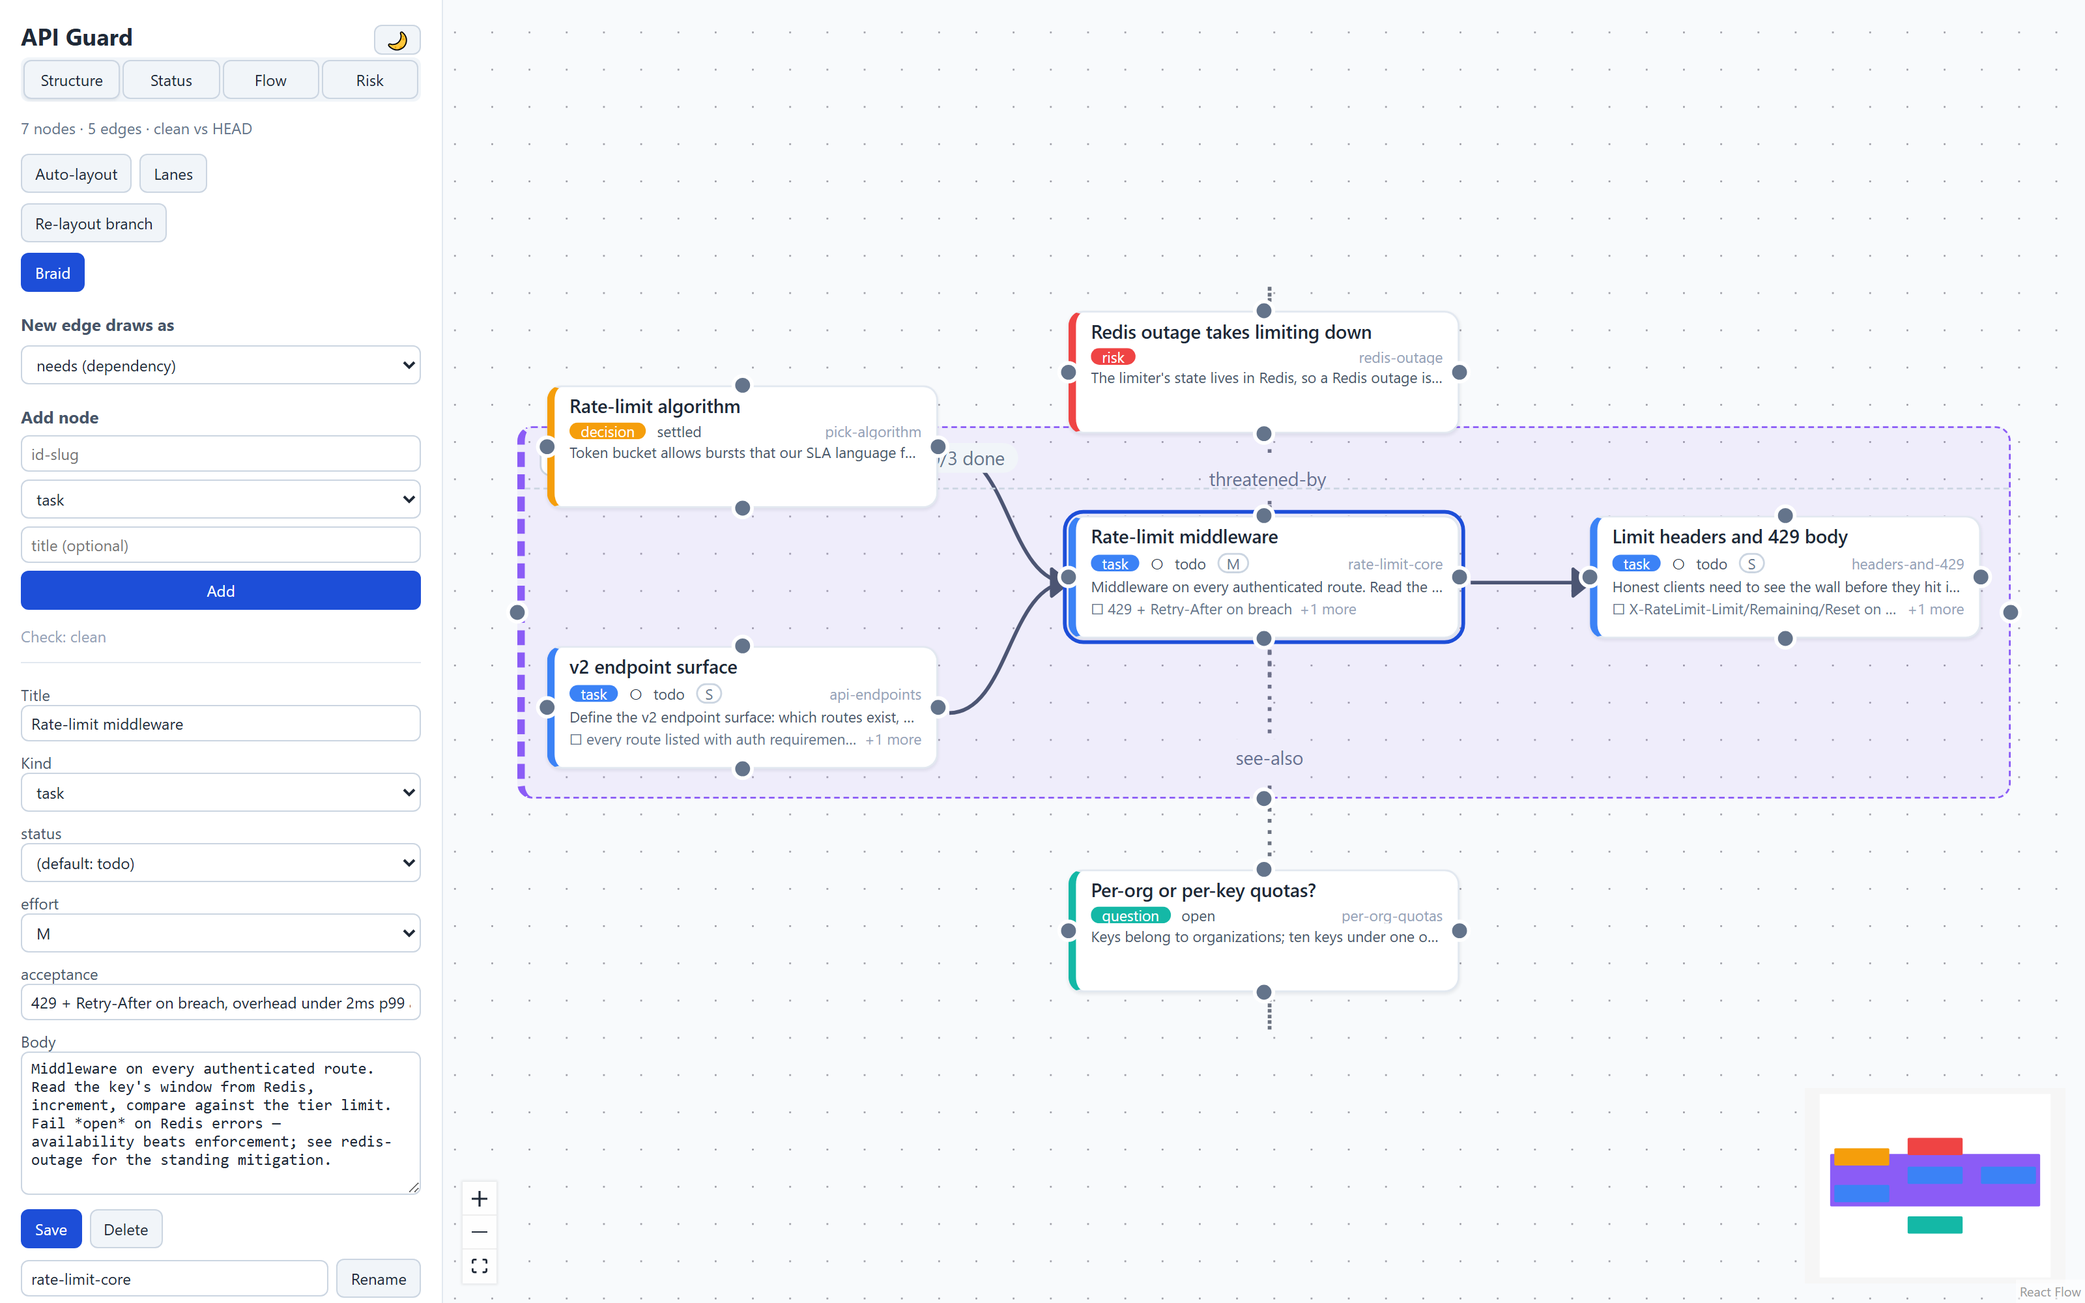
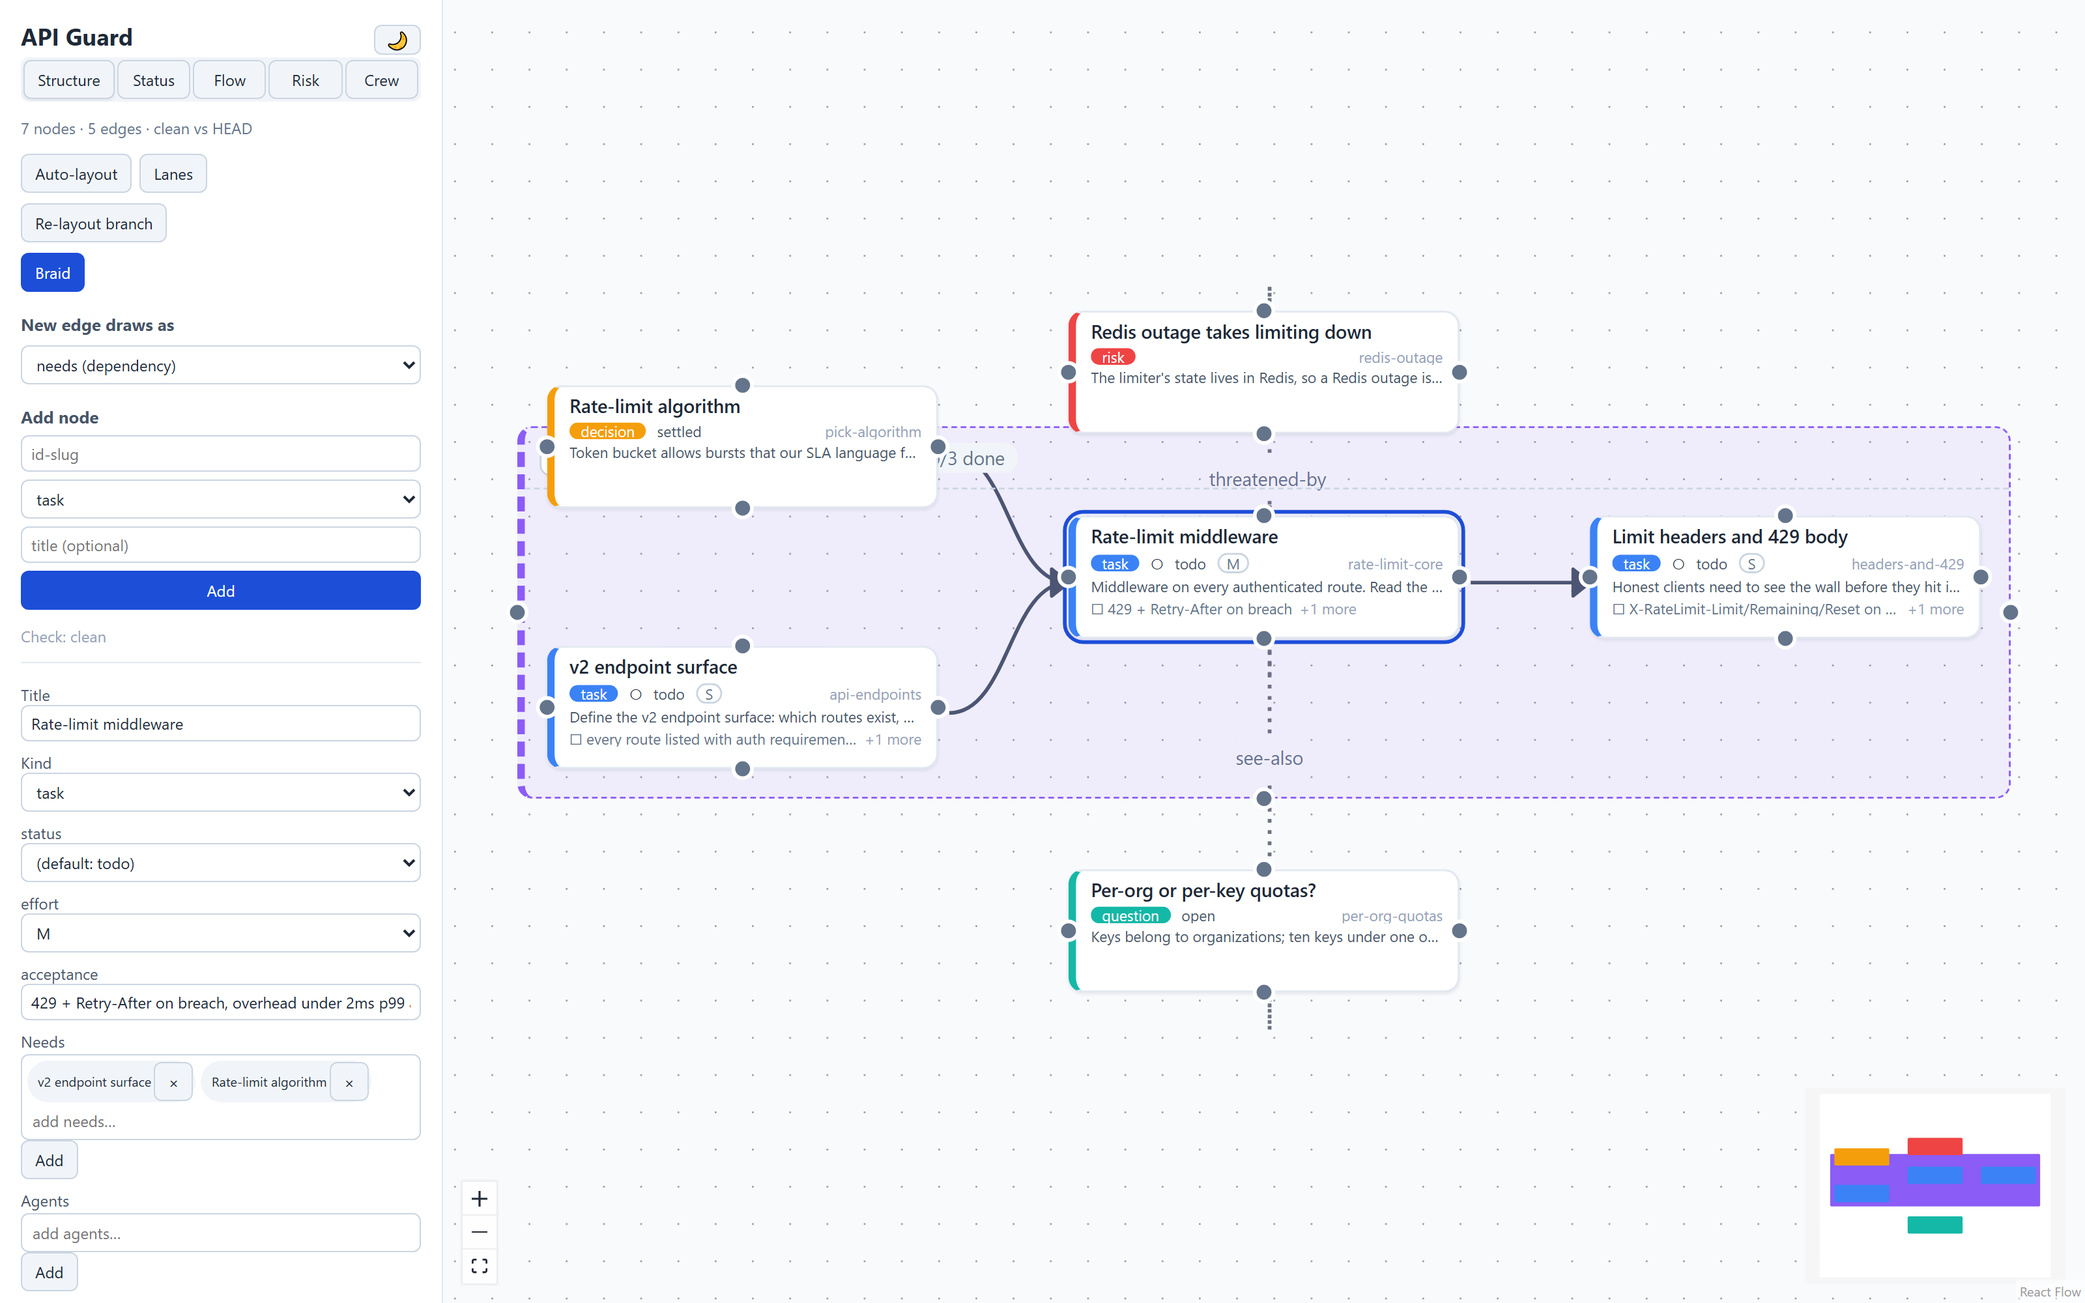
M9 close: the roadmap crews itself — dogfood, demo, docs gate, lens-crew shot, changelog, retro (6 lessons)

Changed region(s): [[0.0, 0.775, 0.1875, 1.0], [0.125, 0.062, 0.1562, 0.093]]

diff --git a/tools/screenshots.py b/tools/screenshots.py
@@ -112,6 +112,11 @@ def main() -> int:
             page.keyboard.press("2")
             page.wait_for_timeout(500)
             page.screenshot(path=str(ASSETS / "lens-status.png"))
+            # The Crew lens (key 5): agent hues, unassigned outlines, trains
+            # edges bold — M9's face, shot on the crewed roadmap itself.
+            page.keyboard.press("5")
+            page.wait_for_timeout(500)
+            page.screenshot(path=str(ASSETS / "lens-crew.png"))
             page.keyboard.press("1")
 
         browser.close()

diff --git a/build/state/journal.md b/build/state/journal.md
@@ -924,3 +924,68 @@ into a container can miss a DOM render cycle right after membership
 changes (transient, orthogonal to CSS). Both M10-feel candidates. Battery
 + frontend typecheck/build green under the orchestrator's hands. M9 items
 3/3 — next: roadmap crew dogfood, then the close ritual.
+
+## 2026-09-01 — retro at M9 close (iterations 29-31)
+
+Six lessons folded, all from this stretch's real incidents:
+1. CSS modifier classes compound with their base class (iteration skill) —
+   the K30 specificity tie muted trains edges AND had shipped Flow's
+   critical bolding dead since K26.
+2. Checker corollary: "this CSS path is inert" is verified by
+   getComputedStyle on a live render — the K30 checker's selector-reading
+   said inert, measurement said broken (iteration skill).
+3. The playwright rule gained its precise boundary: CSSOM reads from any
+   driver are valid; pixel claims are playwright-shot or not evidence
+   (iteration skill).
+4. Reviewers leave resumable artifacts in the scratchpad — the K30 critic's
+   transcript was unresumable; its surviving copy plan + shots let a fresh
+   agent re-verify without rebuild (iteration skill).
+5. Git Bash rewrites leading-slash argument values into Windows paths —
+   the M9 dogfood's invocation fields arrived mangled; PowerShell for such
+   commands; caught by reading the demo output (iteration skill).
+6. Clock-before-authoring strengthens the dates rule — iteration 30's
+   entry ran `date` and ignored it in the same command (iteration skill);
+   and the manage close report now names stale long-running processes (the
+   live MCP server predates K28 — no crew tool until Thomas restarts it).
+Nothing pruned. Training log appended; last_retro_iteration -> 31.
+
+## 2026-09-01 — M9 close: Crew
+
+**Dogfood (PLAN2 par.3.5, run through the tool's own surfaces):** the
+roadmap now carries its crew — agents claude-fable-5 (runtime claude-code,
+trained 2026-08-31, retrieval pointing at PLAN2/journal) and thomas
+(runtime human, the only hands on PyPI); skills kumihimo-iteration/-manage/
+-retro with invocation, source, cadence, and trained from the Training
+log; reference training-log; and a standing retro-cycle task that
+trains: all three skills and consults the log — the honest picture of how
+this project actually runs. Mentions placed only where journal-verifiable:
+agents:[claude-fable-5] on the eleven M7-M10 delegated-loop tasks,
+agents:[thomas]+skills:[kumihimo-manage] on pypi-release,
+skills:[kumihimo-iteration] on the M9 items and feel-work. 41 nodes, 50
+edges, 0 errors, 0 warnings. Adds via CLI; mentions via core.ops.link
+(the CLI still has no --agents flags — known gap); the invocation fields
+arrived MSYS-mangled from Git Bash and were re-set via PowerShell.
+
+**Demo, real prints:** braid --for claude-fable-5 opens "*Ground with:*
+grep the repo first; PLAN2.md is the design authority; journal.md is the
+memory", Cast lists all four crew with trained dates verbatim, tasks carry
+*Assigned:*/*With:* lines; kumihimo crew renders the six-member roster
+with mention counts (agents:12 on claude-fable-5); export jsonl = 41
+records, every line json.loads, ids sorted, retro-cycle's trains + consult
+edges in the feed; ready(for_agent=claude-fable-5) = [feel-work] — the
+same set as ready(), correctly, since the one unblocked task is his.
+
+**Docs gate:** formats/cli/mcp-tools/editor/shortcuts/concepts pages all
+shipped in their iterations' commits; screenshots re-shot including NEW
+lens-crew.png wired into editor.md and the shot tool; README's roadmap
+paragraph updated to match the re-shot canvas (it said "the morning v0.1
+finished" over an image now showing M9 and the crew); README commands
+unchanged since last push — no clean-checkout run owed; mkdocs strict
+green. Statuses: crew-model/crew-braid/crew-canvas done via kumihimo set
+(step 0). Changelog: M9 Added + the two Fixed entries (cascade tie, CRLF).
+
+**For Thomas:** the MCP server behind your Claude sessions has been
+running since before K28 — restart it to get the crew tool, braid
+--for/for_agent, and mention-aware link/unlink. M9 complete 3/3; M10
+"Feel" (feel-work) is the last v0.2 milestone. Pushing at close per
+standing say-so.

diff --git a/.claude/skills/kumihimo-iteration/SKILL.md b/.claude/skills/kumihimo-iteration/SKILL.md
@@ -87,7 +87,22 @@ the orchestrator keeps the gates. Rules that made it work:
 - **Verification screenshots come from playwright's own chromium**, which
   composites offscreen. The Claude Browser pane cannot screenshot in this
   environment (hidden, no frames) — an agent told to use it will burn its
-  budget discovering that; brief the tool explicitly.
+  budget discovering that; brief the tool explicitly. The precise boundary
+  (drawn at K30): CSSOM/DOM reads (`getComputedStyle`, class lists) are
+  valid from any driver — no compositing involved — but any claim about
+  rendered pixels is playwright-shot or it isn't evidence.
+- **Lens/state modifier classes must COMPOUND with the base class they
+  override** (`.kumi-edge-mention.kumi-crew-trains-edge`), never rely on
+  specificity alone — equal-specificity rules tie and the later base rule
+  wins by source order. This exact tie shipped Flow's critical-edge bolding
+  dead for two milestones (K26-K30) and muted K30's trains edges. Corollary
+  for checkers: a claim that a CSS path is "inert" is verified by computed
+  style on a live render, never by reading selectors — the K30 checker's
+  code-reading hypothesis said inert; getComputedStyle said broken.
+- **Reviewers leave their setup resumable in the scratchpad** (copy plans,
+  shot dirs, scripts, stable names). A completed agent's transcript can be
+  unresumable (K30's critic was); the fresh re-verify critic rebuilt
+  nothing because the artifacts survived.
 - **Reviewer scripts operate on COPIES, and every reviewer's last line
   asserts the real tree unchanged.** The K27 critic's script pointed at the
   real plans/roadmap and left collapse state behind; the builder caught the
@@ -147,6 +162,12 @@ before builds and syncs. And when a test must spawn the server, spawn
 `.venv/Scripts/kumihimo.exe` directly — terminating a `uv run` wrapper
 orphans the real process, which then squats on the port.
 
+**A CLI argument value starting with `/` gets rewritten to a Windows path
+by Git Bash** (MSYS conversion: `--field invocation=/kumihimo-iteration`
+arrived on disk as `C:/Program Files/Git/kumihimo-iteration` during the M9
+dogfood — caught only because the demo output was read). Run such commands
+through PowerShell, which doesn't translate.
+
 **A skip guards exactly one precondition.** The smoke test's first draft
 wrapped its whole browser block in `except Error: skip` and laundered a real
 failure into a 37-second "skip" (iteration 15). Catch precisely the missing-
@@ -198,7 +219,10 @@ dead is the standing example.
 **Journal dates come from the clock, not the previous entry.** Six days of
 entries carried a stale date because sessions wrote what the last entry
 said; GitHub's timestamps caught it. `date` runs at claim time — use its
-answer.
+answer. And *read the clock before authoring the entry*, as its own step:
+iteration 30's entry was drafted in the same command as its `date` call,
+dated from subagent UTC timestamps instead, and had to be amended —
+running the clock and ignoring it is the same bug with better alibi.
 
 **Every number in a journal entry comes from an executed command.** Iteration
 8's first draft reported an edge count computed in the head; it was wrong.

diff --git a/CHANGELOG.md b/CHANGELOG.md
@@ -7,6 +7,29 @@ All notable changes to Kumihimo. Format follows
 ## [Unreleased]
 
 ### Added
+- M9, the crew: three reserved mention keys — `agents:`, `skills:`,
+  `trains:` — typed like `needs` (scalar-or-list), validated as errors when
+  dangling or wrong-kind, plus three engineering-pack kinds (`agent`,
+  `skill`, `reference`, none required-field) and read-only `@id` prose
+  mentions (one documented regex; dangling warns; bodies are never
+  rewritten). The braid renders *Assigned:*/*With:*/*Trains:* lines,
+  *Consult:* lines from `rel: consult` links to references, and a Cast
+  section introducing every crew member the output cites; `braid --for
+  AGENT` compiles that agent's slice opening with *Ground with:* from its
+  `retrieval` field; `kumihimo crew` (CLI) and a `crew` MCP tool list the
+  roster with trained dates emitted verbatim — the library never compares
+  them to a clock; `ready(for_agent=)` filters the frontier;
+  `kumihimo export --format jsonl` emits the deterministic RAG feed (gated
+  on check errors like braid; mermaid/dot stay ungated as diagnostics). On
+  the canvas: mention edges render thin, dotted, and labeled without ever
+  influencing layout; the Crew lens (key `5`) tints by first assigned agent
+  with per-tint WCAG-checked pill text, outlines unassigned work, bolds
+  `trains:` edges, and shows near-tier skill chips; the sidebar gains chip
+  editors with kind-filtered autocomplete for needs/agents/skills, each
+  chip gesture one immediate link/unlink op. The repo's own roadmap now
+  carries its real crew — this agent, Thomas, the three repo skills with
+  their training dates, and the training-log reference.
+
 - M8, the canvas gets its shape: milestones render as real containers —
   members nested inside, collapse to a chip carrying n/m done with edges
   rerouted, layout by true elk hierarchy proven pairwise non-overlapping;
@@ -81,3 +104,13 @@ All notable changes to Kumihimo. Format follows
   (`tools/lint.py`) enforcing the file cap, tag scheme, and README indexes,
   import-boundary tests, CI on ubuntu + windows, project skills and build
   state, and the full v0.1 design in PLAN.md.
+
+### Fixed
+- A CSS cascade tie (equal specificity, later source order) had been
+  silently overriding lens edge treatments — including Flow's critical-path
+  edge bolding, dead since it shipped in M8; lens modifiers now compound
+  with the base edge classes and every lens edge treatment measures to
+  spec.
+- CLI stdout on Windows no longer translates LF to CRLF on redirect —
+  `kumihimo braid > file` is byte-identical to the API output — and the
+  shared console is UTF-8 on every verb.

diff --git a/.claude/skills/kumihimo-manage/SKILL.md b/.claude/skills/kumihimo-manage/SKILL.md
@@ -70,6 +70,12 @@ training pass; (5) **push** — milestone-close pushes carry Thomas's standing
 say-so (2026-08-24); off-cycle pushes still ask him. If CI fails after the
 push, fixing it is immediately the top of the queue.
 
+The close report names any long-running process now running old code — the
+MCP server Thomas's Claude sessions use is a session-long process wired to
+this repo, and after a milestone lands it serves the previous milestone's
+tools until restarted (the M9 close found it pre-K28: no crew tool, no
+mention kwargs).
+
 ## Release (M6 and after)
 
 Prepare, never execute: version bump correctness, CHANGELOG section cut,
@@ -153,3 +159,17 @@ is alive, and a gap in it is itself a finding for the next retro.
   manage skill's close checklist gained step 0, roadmap statuses via the
   tool (the M7 miss made ready() lie until caught). Acceptance-authority
   paid again: the MCP ready rule beat the queue's own summary sentence.
+- 2026-09-01 — retro at M9 close (iterations 29-31): iteration skill
+  gained the CSS compound-modifier rule with its checker corollary —
+  "inert" claims verified by computed style, never selector-reading (the
+  tie the K30 checker called inert had Flow's critical bolding dead since
+  K26); the CSSOM-vs-pixels boundary refined on the playwright rule
+  (getComputedStyle from any driver is valid, pixel claims are
+  playwright-only); reviewers-leave-resumable-artifacts (K30's critic
+  transcript vanished, its scratchpad let the successor skip the rebuild);
+  the Git Bash leading-slash MSYS mangling note (M9 dogfood invocation
+  fields, caught by reading the demo); clock-before-authoring strengthens
+  the journal-dates rule (iteration 30's entry was dated from subagent UTC
+  timestamps with the clock output in the same command, amended). Manage
+  close checklist now names stale long-running processes in the close
+  report (the live MCP server predates K28). Nothing pruned.

diff --git a/README.md b/README.md
@@ -20,11 +20,12 @@ well-ordered **prompt** an LLM or coding agent can act on.
   tools to read, restructure, validate, braid, and list the crew — so an
   agent can maintain the plan it executes. This repo's own roadmap is a
   Kumihimo plan ([plans/roadmap](plans/roadmap)), its milestone prompts were
-  braided, not hand-written, and the canvas below is that roadmap the
-  morning v0.1 finished — every thread done, the release node blocked on a
-  human with a tag:
+  braided, not hand-written, and the canvas below is that roadmap today —
+  v0.1's threads done, the v0.2 milestones landing, the crew (agents,
+  skills, the training log) on the canvas, the release node still blocked
+  on a human with a tag:
 
-  <img src="docs/assets/canvas-roadmap.png" alt="Kumihimo's own v0.1 roadmap on the canvas: milestones M3-M6 with every task done and the release node blocked" width="100%">
+  <img src="docs/assets/canvas-roadmap.png" alt="Kumihimo's own roadmap on the canvas: v0.1 and v0.2 milestones, crew nodes, and the blocked release node" width="100%">
 
 The files are the only source of truth — Markdown with YAML frontmatter, in
 git, diffing cleanly. The editor, CLI, and MCP server are thin clients over

diff --git a/plans/roadmap/nodes/crew-braid.md b/plans/roadmap/nodes/crew-braid.md
@@ -4,5 +4,8 @@ title: Braid --for, Cast, crew surface, JSONL
 needs: [crew-model]
 in: [m9-crew]
 effort: L
+agents: [claude-fable-5]
+skills: [kumihimo-iteration]
+status: done
 ---
 PLAN2 §3.3, §3.6-3.7 compile half. Templates render Assigned/With/Trains/Consult lines; grouped strategy gains the Cast section; braid --for compiles one agent's work orders opening with its retrieval grounding; crew CLI verb + MCP tool list the roster with trained/cadence; ready(for_agent); export --format jsonl. Goldens regenerated deliberately. Queue item K29 is the acceptance authority.

diff --git a/plans/roadmap/nodes/containers-subflows.md b/plans/roadmap/nodes/containers-subflows.md
@@ -4,5 +4,6 @@ title: 'Containers: milestones as subflows'
 in: [m8-shape]
 effort: L
 status: done
+agents: [claude-fable-5]
 ---
 PLAN2 §2.3 lens 1 + risk 1. Milestones render as React Flow parent containers; members live inside; collapse persists in view.yaml (view-state); a collapsed milestone is a chip with n/m done and re-routed edges. Stored positions stay ABSOLUTE in the sidecar — parent-relative conversion is an RF-layer concern only. Spike-first: if subflows x elk can't stabilize, the documented fallback is containers without auto-layout-into-containers.

diff --git a/plans/roadmap/nodes/crew-model.md b/plans/roadmap/nodes/crew-model.md
@@ -3,5 +3,8 @@ kind: task
 title: 'Crew model: mention keys and kinds'
 in: [m9-crew]
 effort: L
+agents: [claude-fable-5]
+skills: [kumihimo-iteration]
+status: done
 ---
 PLAN2 §3.1-3.2, §3.6-3.7 model half. Three reserved mention keys (agents:, skills:, trains:) parsed, validated (targets exist and are the right kind), carried on Node; engineering pack gains agent/skill/reference kinds with their fields; `@id` prose mentions scanned read-only (dangling = warning); ops.link/unlink learn the three keys. Queue item K28 is the acceptance authority.

diff --git a/plans/roadmap/nodes/claude-fable-5.md b/plans/roadmap/nodes/claude-fable-5.md
@@ -1,0 +1,14 @@
+---
+kind: agent
+title: Claude Fable 5
+runtime: claude-code
+model: claude-fable-5
+entry: Claude Code sessions in C:\Kumihimo
+scope:
+  - build
+  - docs
+  - release-prep
+retrieval: grep the repo first; PLAN2.md is the design authority; journal.md is the memory
+trained: '2026-08-31'
+---
+The build agent: runs the delegated builder/checker/critic loop, keeps the verification battery, commits at iteration ends, pushes at milestone closes (standing say-so). Trained by /kumihimo-retro at each close.

diff --git a/docs/howto/claude-mcp.md b/docs/howto/claude-mcp.md
@@ -56,4 +56,4 @@ for building the tool are braided from it — the tool eats its own cooking.
 Here is that roadmap on the canvas the morning v0.1 finished, every thread
 done and the release node blocked on a human with a tag:
 
-![Kumihimo's own v0.1 roadmap: milestones M3-M6 done, the release node blocked](../assets/canvas-roadmap.png)
+![Kumihimo's own roadmap: milestones M3-M9 done, the release node blocked, the crew — agents, skills, the training log — on the canvas](../assets/canvas-roadmap.png)

diff --git a/docs/howto/editor.md b/docs/howto/editor.md
@@ -232,6 +232,9 @@ a payload echo untouched.
   fades, so "who trains the crew" reads at a glance against everything else
   receding.
 
+![The Crew lens on Kumihimo's own roadmap: unassigned work outlined, the
+crew column's trains edges bold](../assets/lens-crew.png)
+
 **Precedence**, when more than one visual channel would apply to the same
 node: a finding halo always wins, and for the two lens treatments that dim a
 card (Status's done tinge, Risk's "everything else" dim) that's an
